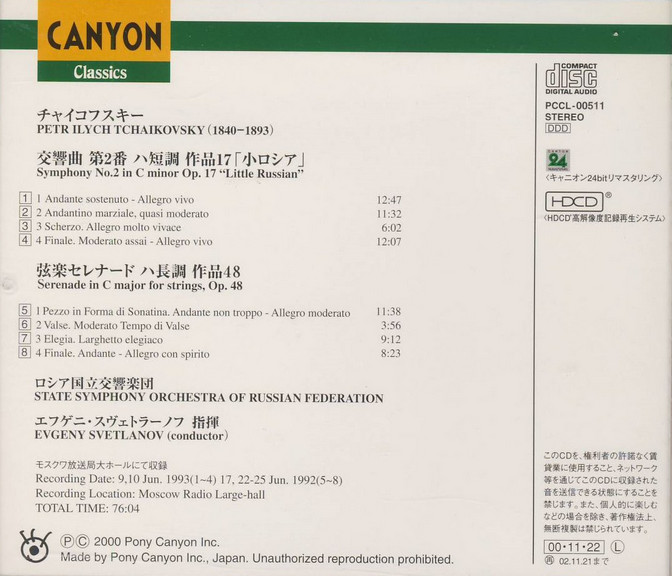
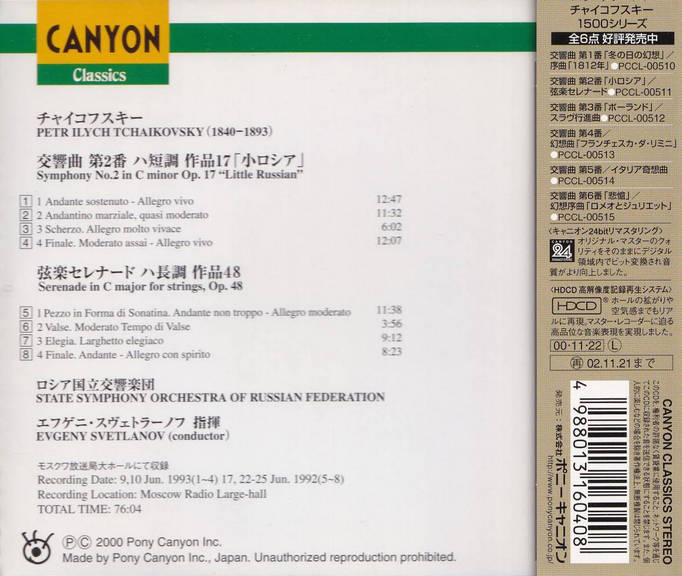
add 510, 512-515, nicer 511 images

diff --git a/index.html b/index.html
@@ -2537,12 +2537,57 @@
     <td></td>
   </tr>
   <tr>
+    <td>PCCL-00510</td>
+    <td>Tchaikovsky: Symphony No. 1 "Winter Day Dreams", 1812 Overture</td>
+    <td>Evgeny Svetlanov, State Symphony Orchestra of Russian Federation</td>
+    <td>2000</td>
+    <td><img src="images/PCCL-00510_cover.jpg" height="150" /></td>
+    <td><img src="images/PCCL-00510_back.jpg" height="150" /></td>
+    <td></td>
+  </tr>
+  <tr>
     <td>PCCL-00511</td>
     <td>Tchaikovsky: Symphony No. 2 "Little Russian", Serenade for Strings</td>
     <td>Evgeny Svetlanov, State Symphony Orchestra of Russian Federation</td>
     <td>2000</td>
     <td><img src="images/PCCL-00511_cover.jpg" height="150" /></td>
     <td><img src="images/PCCL-00511_back.jpg" height="150" /></td>
+    <td></td>
+  </tr>
+  <tr>
+    <td>PCCL-00512</td>
+    <td>Tchaikovsky: Symphony No. 3 "Polish", Marche slave</td>
+    <td>Evgeny Svetlanov, State Symphony Orchestra of Russian Federation</td>
+    <td>2000</td>
+    <td><img src="images/PCCL-00512_cover.jpg" height="150" /></td>
+    <td><img src="images/PCCL-00512_back.jpg" height="150" /></td>
+    <td></td>
+  </tr>
+  <tr>
+    <td>PCCL-00513</td>
+    <td>Tchaikovsky: Symphony No. 4, Francesca da Rimini</td>
+    <td>Evgeny Svetlanov, State Symphony Orchestra of Russian Federation</td>
+    <td>2000</td>
+    <td><img src="images/PCCL-00513_cover.jpg" height="150" /></td>
+    <td><img src="images/PCCL-00513_back.jpg" height="150" /></td>
+    <td></td>
+  </tr>
+  <tr>
+    <td>PCCL-00514</td>
+    <td>Tchaikovsky: Symphony No. 5, Capriccio Italien</td>
+    <td>Evgeny Svetlanov, State Symphony Orchestra of Russian Federation</td>
+    <td>2000</td>
+    <td><img src="images/PCCL-00514_cover.jpg" height="150" /></td>
+    <td><img src="images/PCCL-00514_back.jpg" height="150" /></td>
+    <td></td>
+  </tr>
+  <tr>
+    <td>PCCL-00515</td>
+    <td>Tchaikovsky: Symphony No. 6, Romeo and Juliet</td>
+    <td>Evgeny Svetlanov, State Symphony Orchestra of Russian Federation</td>
+    <td>2000</td>
+    <td><img src="images/PCCL-00515_cover.jpg" height="150" /></td>
+    <td><img src="images/PCCL-00515_back.jpg" height="150" /></td>
     <td></td>
   </tr>
   <tr>
